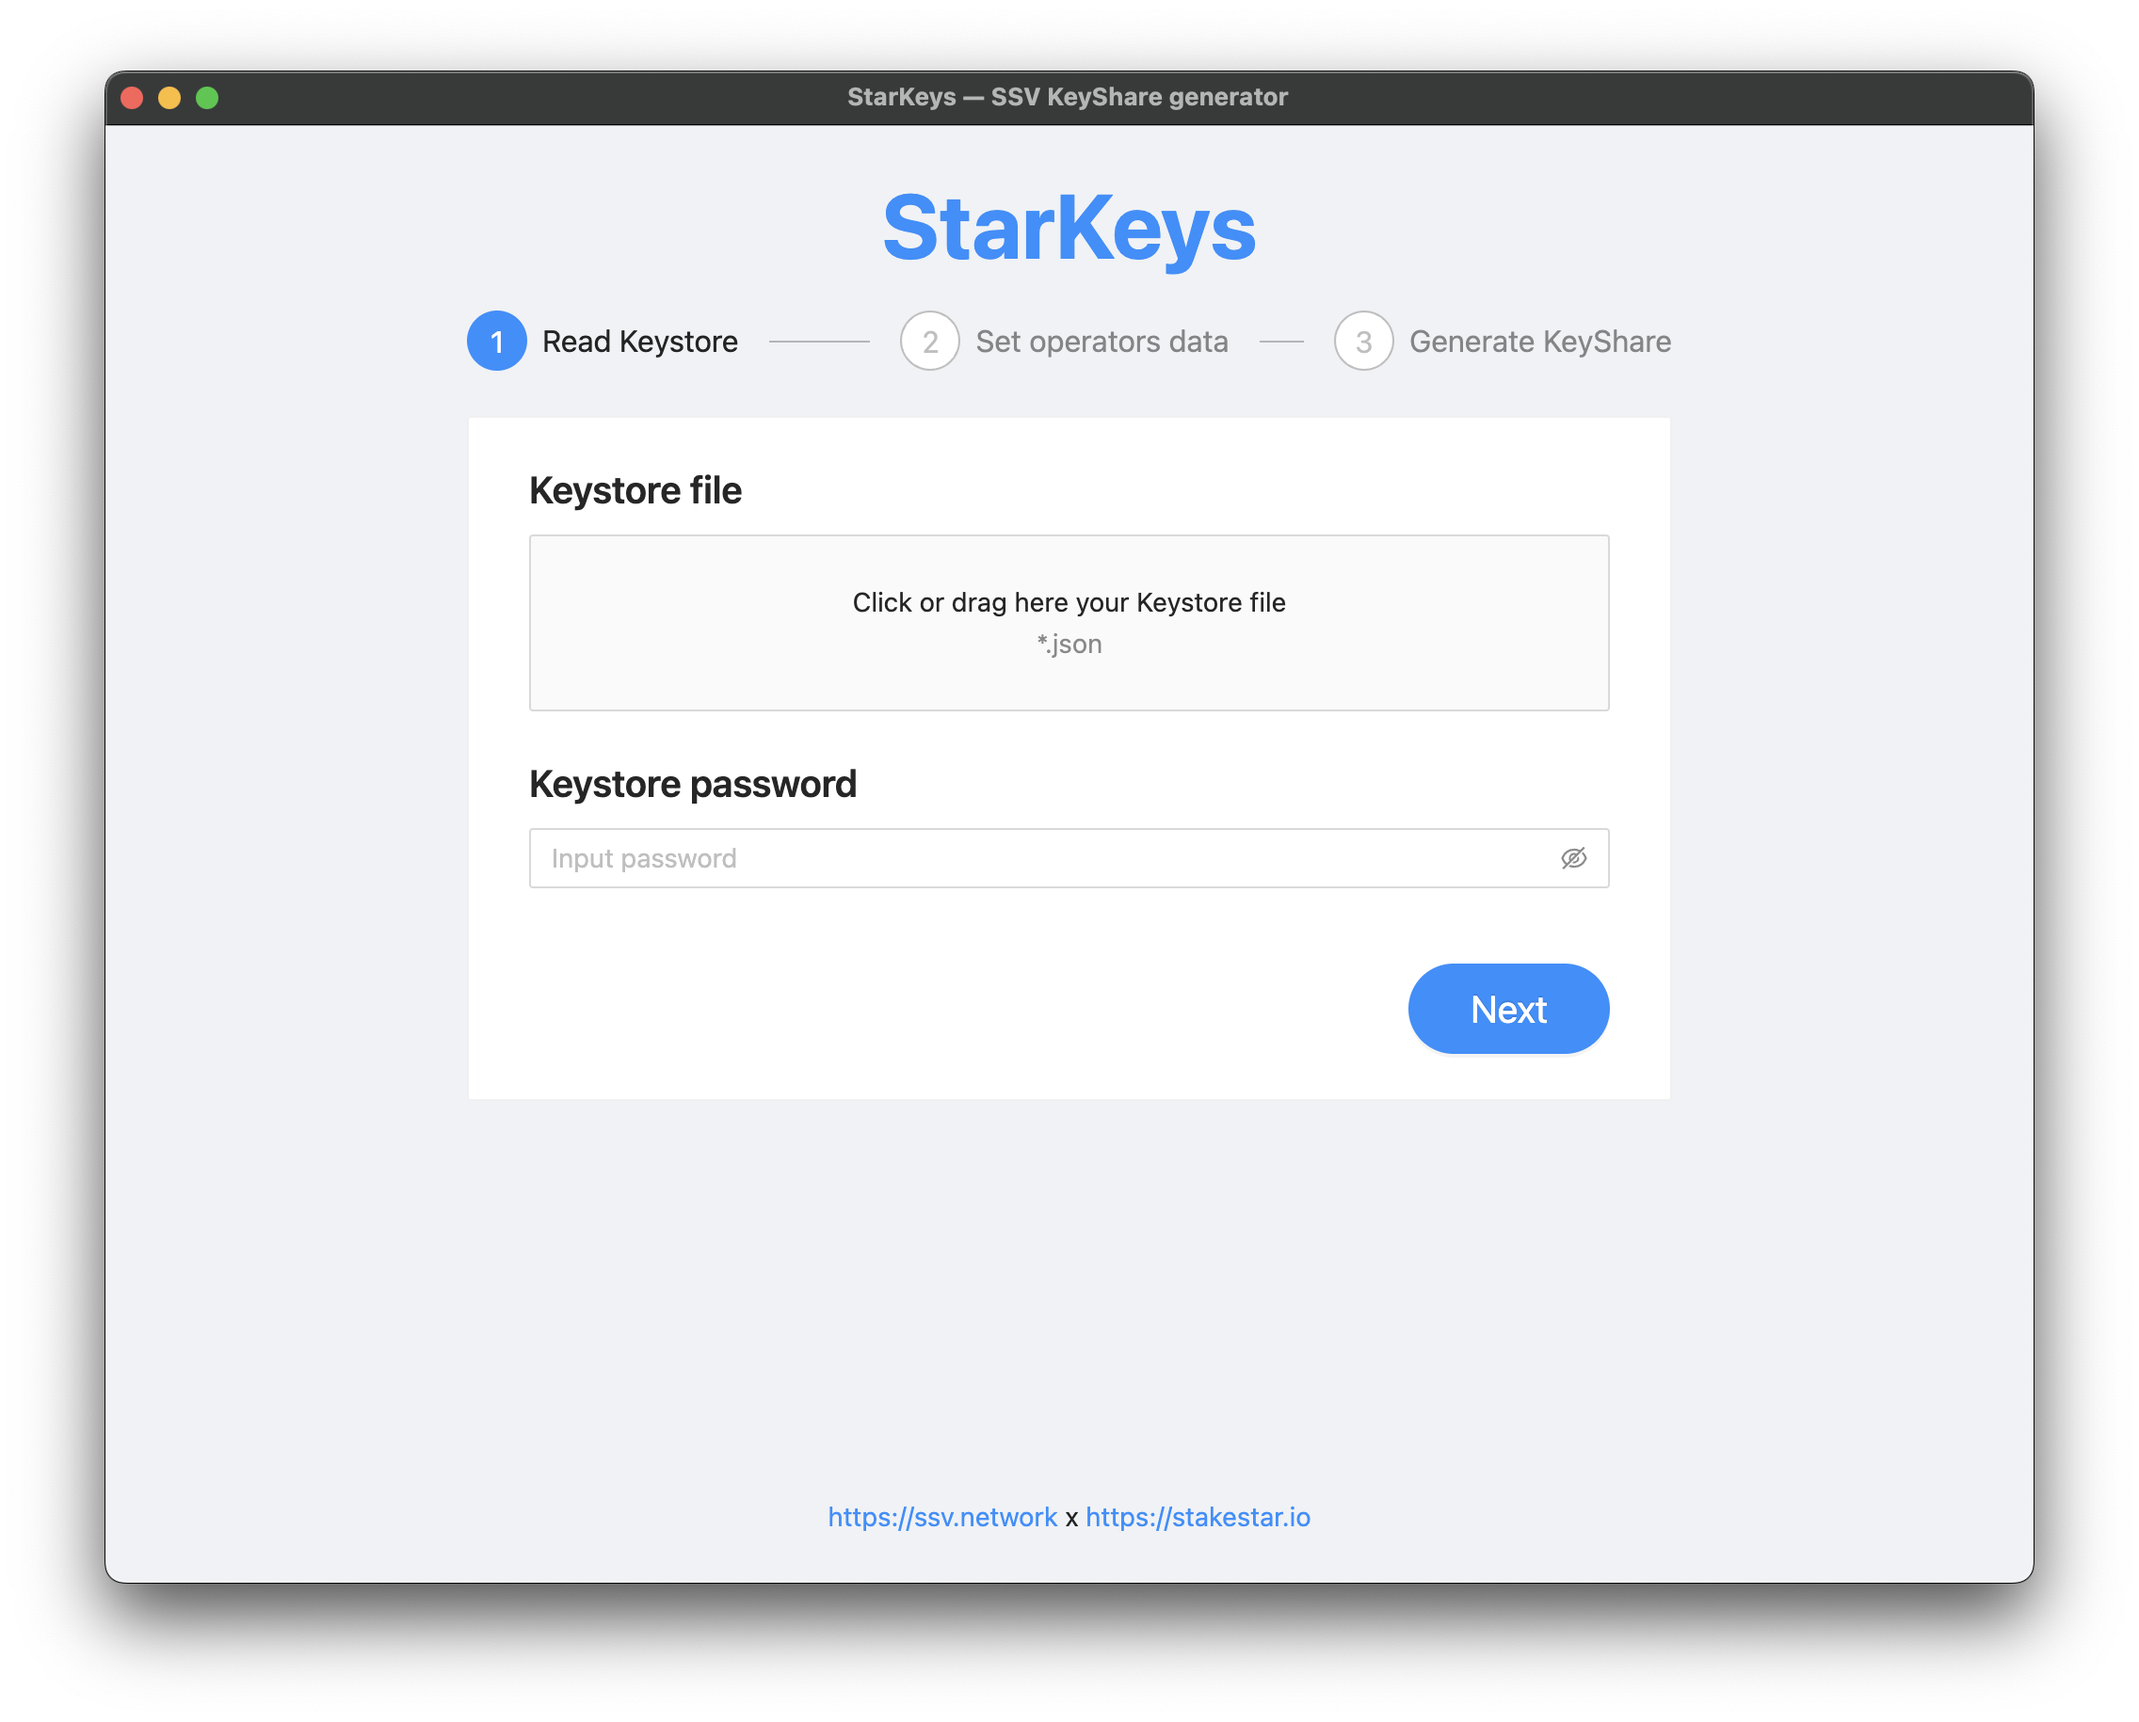
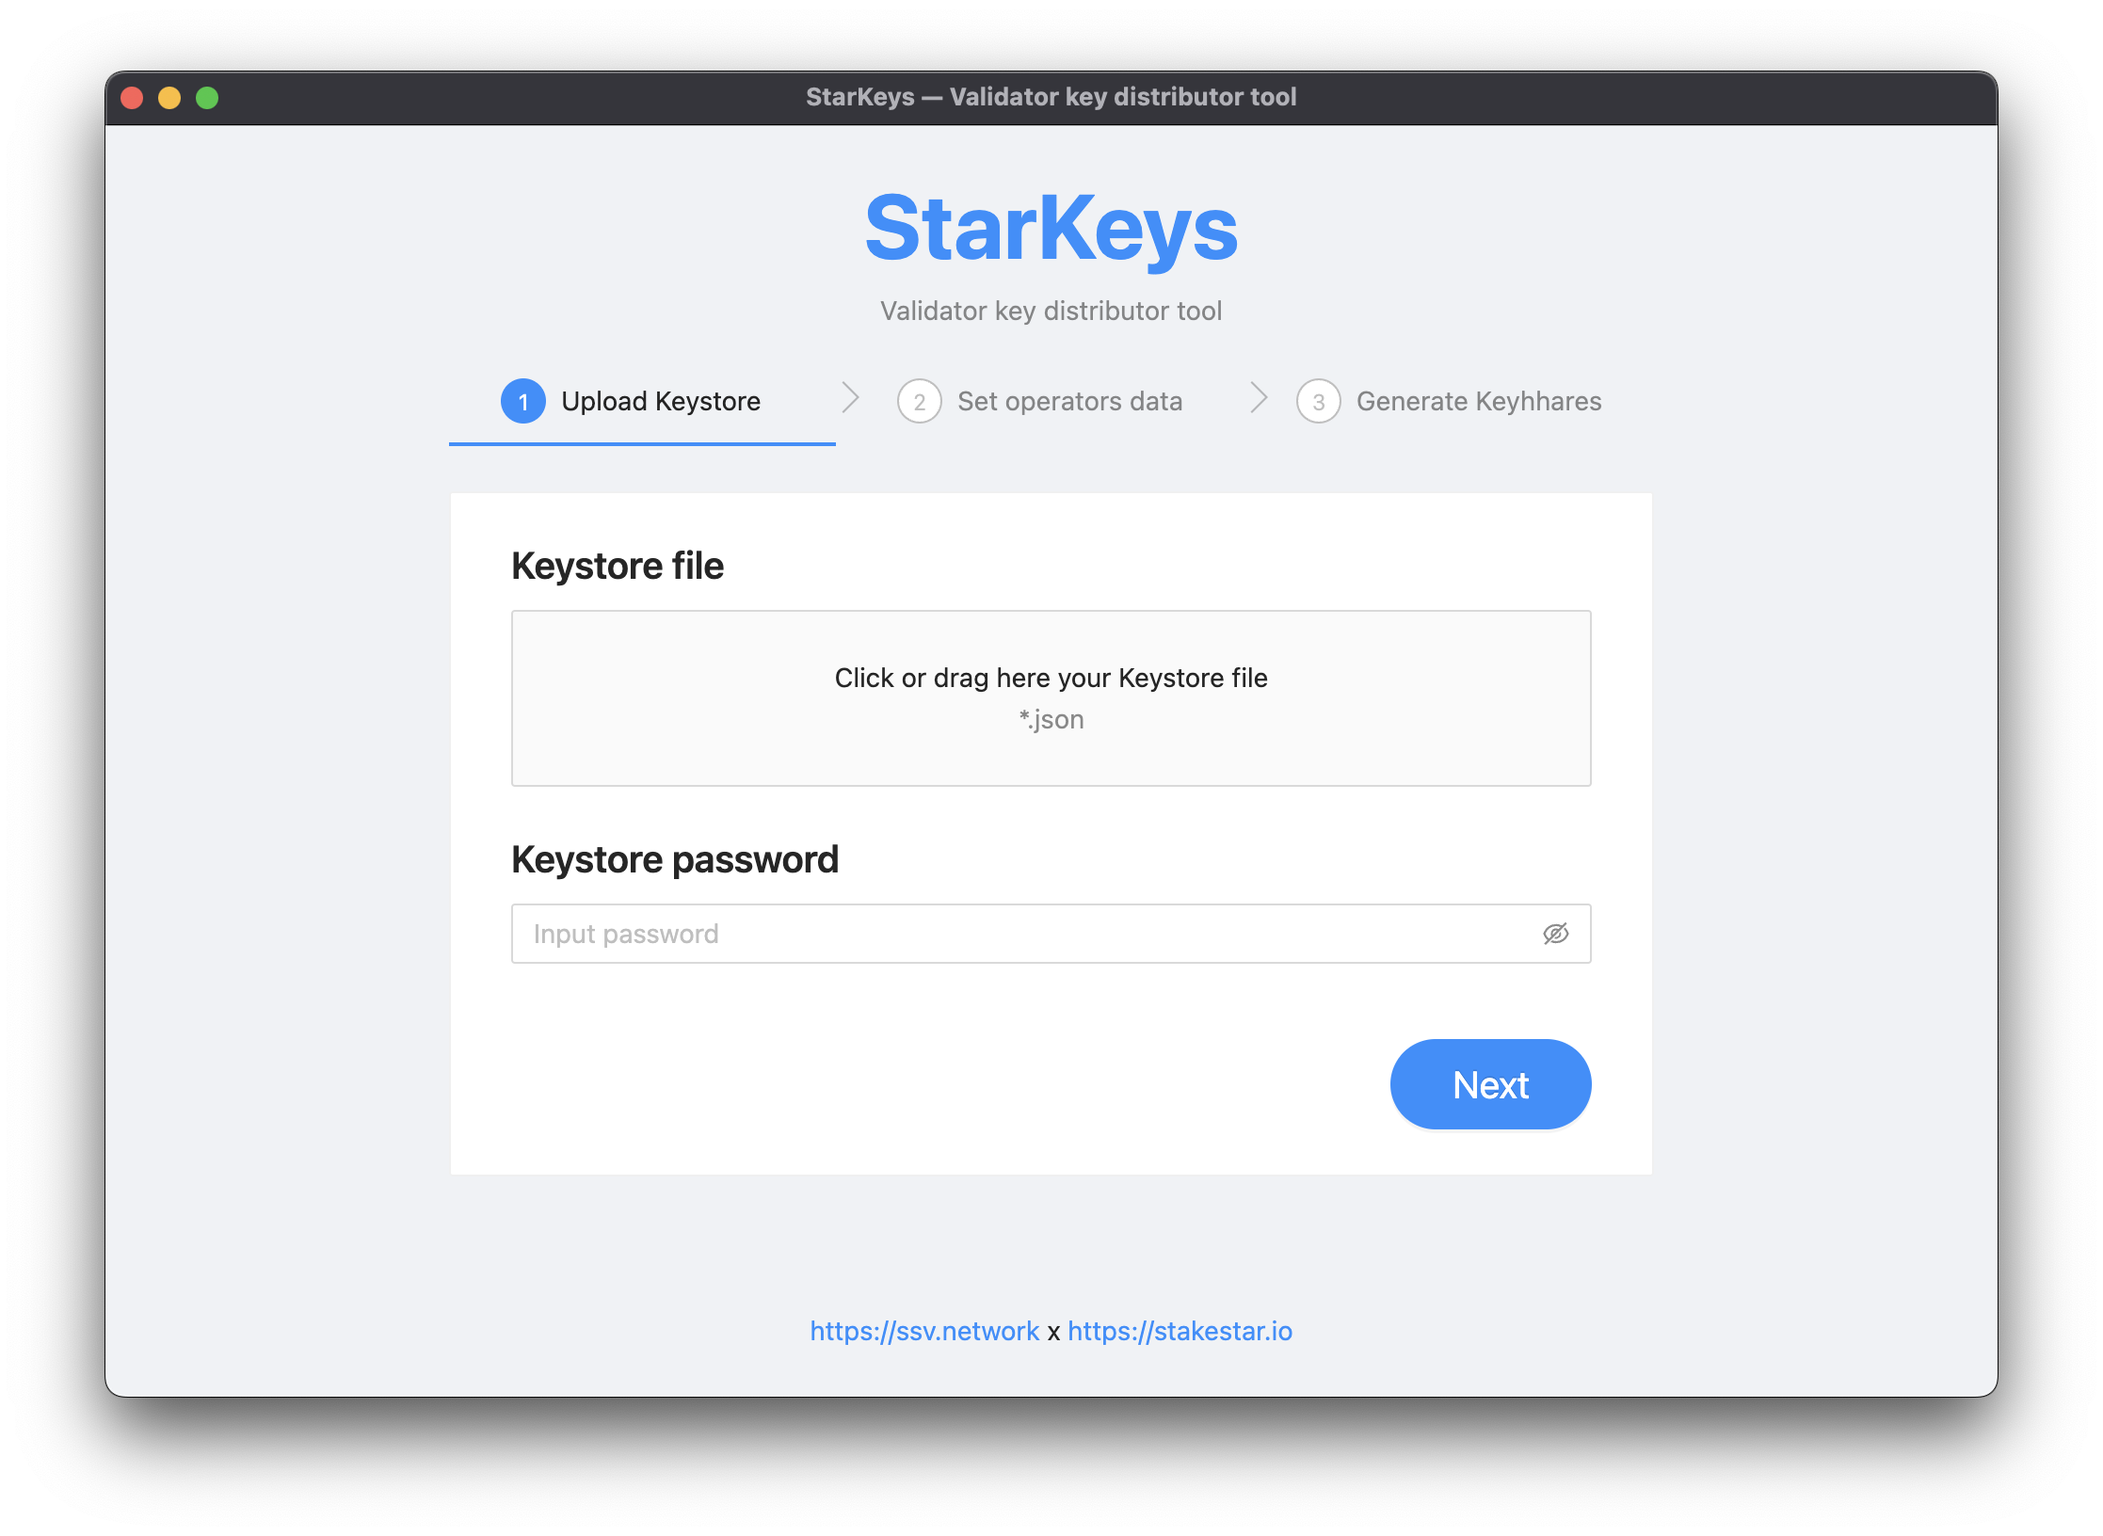
Fix validation, text and steps UI

diff --git a/src/components/OperatorsStep/OperatorsStep.tsx b/src/components/OperatorsStep/OperatorsStep.tsx
@@ -1,6 +1,7 @@
 import { Button, Input, InputNumber, Tooltip, Typography } from 'antd'
 import {
-  InfoCircleTwoTone
+  InfoCircleTwoTone,
+  ArrowDownOutlined
 } from '@ant-design/icons';
 import Link from 'antd/lib/typography/Link'
 import classNames from 'classnames'
@@ -140,24 +141,20 @@ export function OperatorsStep() {
 
   return (
     <div className={styles.OperatorsStep}>
-      <div className={styles.Row}>
-        <Title level={4}>Parse SSV arguments (recomended) 
+      <div className={styles.Row} style={{ marginBottom: '0.7rem'}}>
+        <Title level={4}>Input arguments
         <Tooltip placement="right" title={<>Arguments could be generated through the <Link href="https://app.ssv.network" target="_blank">app.ssv.network</Link></>}>
           <InfoCircleTwoTone twoToneColor="#1890ff" style={{ marginLeft: '5px' }}/>
         </Tooltip></Title>
         <Input
-          placeholder="Input SSV arguments"
+          placeholder="Input arguments"
           onChange={({ target }) => parseCliArgs(target.value)}
         />
       </div>
-      <div className={styles.Row}>
-        <Title level={4}>
-          or manually provide{' '}
-          <Link href="https://explorer.ssv.network/operators/" target="_blank">
-            Operators
-          </Link>{' '}
-          ids and keys
-        </Title>
+      <div className={styles.Row} style={{ marginBottom: '1.5rem'}}>
+        <div className={styles.Center} style={{ marginBottom: '0.7rem'}}>
+          <ArrowDownOutlined style={{ fontSize: '24px', color: '#1890ff' }}  />
+        </div>
         <Operators />
       </div>
       <div className={styles.Row}>

diff --git a/src/components/KeystoreFileStep/KeystoreFileStep.tsx b/src/components/KeystoreFileStep/KeystoreFileStep.tsx
@@ -25,7 +25,7 @@ export function KeystoreFileStep() {
 
   const [isLoading, setIsLoading] = useState(false)
   const [isError, setIsError] = useState(false)
-  const [isInvalidPass, setIsInvalidPass] = useState(false)
+  const [errorMsg, setErrorMsg] = useState('')
 
   const onClickNext = async () => {
     setKeystoreFileError(false)
@@ -35,7 +35,7 @@ export function KeystoreFileStep() {
 
     let isValid = true
     setIsError(false)
-    setIsInvalidPass(false)
+    setErrorMsg('')
 
     if (!keystoreFile) {
       setKeystoreFileError(true)
@@ -51,13 +51,12 @@ export function KeystoreFileStep() {
       const fileContent = await readFileContent(keystoreFile)
       const privateKey = await validateKeystorePassword(fileContent, keystorePassword)
 
-      if (privateKey) {
+      if (privateKey instanceof Error) {
+        setIsError(true)
+        setErrorMsg(privateKey.message)
+      } else {
         setPrivateKey(privateKey)
         setCurrentStep(1)
-      } else {
-        setIsError(true)
-        setIsInvalidPass(true)
-        console.error('privateKey', privateKey)
       }
     } else {
       setIsError(true)
@@ -83,7 +82,7 @@ export function KeystoreFileStep() {
         />
       </div>
       <div className={classNames(styles.Error, { [styles.active]: isError })}>
-        { isInvalidPass ? 'Invalid password' : 'Please fill the fields above and try again' }
+        { errorMsg ? errorMsg : 'Please fill the fields above and try again' }
         
       </div>
       <Button

diff --git a/src/lib/ssv/keystore.ts b/src/lib/ssv/keystore.ts
@@ -1,10 +1,23 @@
 import { EthereumKeyStore } from 'ssv-keys'
 
+const invalidPassError = new Error('Invalid password')
+const invalidFileError = new Error('Invalid keystore file')
+
 export const validateKeystorePassword = async (
   keyStoreData: string,
   password: string
-): Promise<string | null> => {
-  const keyStore = new EthereumKeyStore(keyStoreData)
+): Promise<string | Error> => {
+  let keyStore: EthereumKeyStore
 
-  return keyStore.getPrivateKey(password).catch((err) => { return null })
+  try {
+    keyStore = new EthereumKeyStore(keyStoreData)
+  } catch (err) {
+    return invalidFileError
+  }
+
+  try {
+    return keyStore.getPrivateKey(password)
+  } catch (err) {
+    return invalidPassError
+  }
 }

diff --git a/src/components/Steps.tsx b/src/components/Steps.tsx
@@ -10,11 +10,13 @@ export function Steps(): JSX.Element {
 
   return (
     <AntdSteps
+      type="navigation"
+      size="small"
       className={styles.Steps}
       current={currentStep}
       items={[
         {
-          title: 'Read Keystore',
+          title: 'Upload Keystore',
           description: ''
         },
         {
@@ -23,7 +25,7 @@ export function Steps(): JSX.Element {
           subTitle: ''
         },
         {
-          title: 'Generate KeyShare',
+          title: 'Generate Keyhhares',
           description: ''
         }
       ]}

diff --git a/src/components/OperatorsStep/Operators.tsx b/src/components/OperatorsStep/Operators.tsx
@@ -34,8 +34,8 @@ export function Operators() {
   return (
     <div>
       <div className={styles.Header}>
-        <Typography className={styles.Column1}>Id</Typography>
-        <Typography className={styles.Column2}>Public key</Typography>
+        <Typography className={styles.Column1}>Operator ID</Typography>
+        <Typography className={styles.Column2}>Operator Public Key</Typography>
       </div>
       {operators.map((operator, index) => (
         <Input.Group className={styles.Group} key={index} compact>

diff --git a/src/components/OperatorsStep/OperatorsStep.module.scss b/src/components/OperatorsStep/OperatorsStep.module.scss
@@ -1,7 +1,5 @@
 .OperatorsStep {
   .Row {
-    margin-bottom: 1.5rem;
-
     .InputNumber {
         display: flex;
     }
@@ -35,4 +33,10 @@
   .Optional {
     color: rgba(0, 0, 0, 0.45);
   }
+}
+
+.Center {
+  width: 100%;
+  display: flex;
+  justify-content: center;
 }
